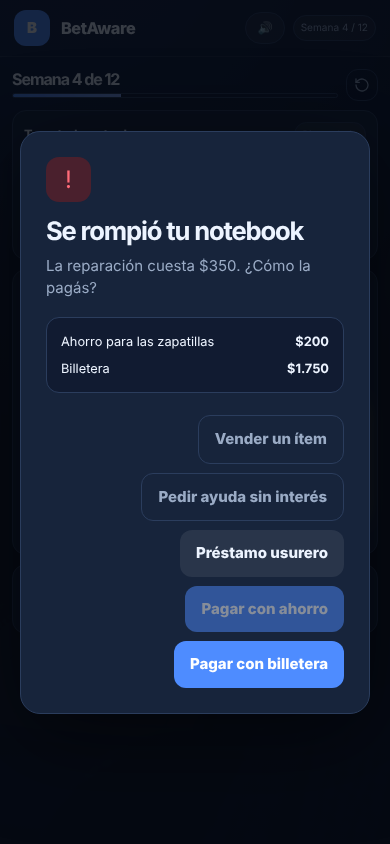
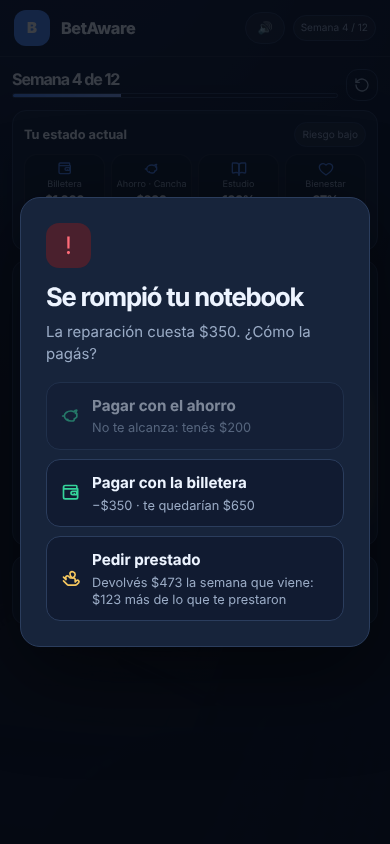
feat: simplify unexpected events to three costed options
The event modal had five buttons with no visible cost, a free loan that
made the paid one pointless, and the hard word "usurero". Now it offers
three options, each showing its cost before choosing: pay from savings
(and how far that leaves the goal), pay from the wallet (and what is
left), or borrow and pay back 35% more next week. Unaffordable options
are disabled with the current balance. Debt wording now uses "devolver"
and "debés".

Update docs/revision.md, docs/informe-cambios.md, the status update and
the event screenshot to match.

Claude-Session: https://claude.ai/code/session_01BiEvhqBGw1okzWDxcH9kun

Changed region(s): [[0.0308, 0.154, 0.9538, 0.8626], [0.7692, 0.3081, 0.8, 0.3389]]

diff --git a/index.html b/index.html
@@ -246,6 +246,13 @@
     .chat { display: grid; gap: 8px; margin: 16px 0 4px; }
     .bubble { background: var(--bg-soft); border: 1px solid var(--line); border-radius: 14px 14px 14px 4px; color: var(--text); font-size: .9rem; justify-self: start; max-width: 92%; padding: 9px 12px; }
     .bubble strong { color: var(--green); display: block; font-size: .72rem; }
+    .crisis-options { display: grid; gap: 9px; margin-top: 16px; }
+    .crisis-option { align-items: center; background: var(--bg-soft); border: 1px solid var(--line); border-radius: 14px; color: var(--text); display: grid; gap: 2px 11px; grid-template-columns: auto 1fr; padding: 12px 14px; text-align: left; transition: border-color .2s, transform .2s; }
+    .crisis-option:hover:not(:disabled) { border-color: var(--blue); transform: translateY(-1px); }
+    .crisis-option .icon { color: var(--green); font-size: 1.25rem; grid-row: span 2; }
+    .crisis-option.borrow .icon { color: var(--yellow); }
+    .crisis-option strong { font-size: .95rem; }
+    .crisis-option span { color: var(--muted); font-size: .8rem; line-height: 1.35; }
     .crisis-icon { align-items: center; background: var(--red-soft); border-radius: 13px; color: var(--red); display: flex; font-size: 1.5rem; height: 45px; justify-content: center; margin-bottom: 15px; width: 45px; }
 
     .debrief { margin: 0 auto; max-width: 900px; }
@@ -437,7 +444,7 @@
         $("#walletBar").style.width = `${clamp(state.wallet / 2000 * 100, 0, 100)}%`; $("#savingsBar").style.width = `${clamp(state.savings / goal.cost * 100, 0, 100)}%`;
         $("#studyBar").style.width = `${state.study}%`; $("#wellbeingBar").style.width = `${state.wellbeing}%`;
         const [risk, riskClass] = riskInfo(); $("#riskBadge").textContent = `Riesgo ${risk}`; $("#riskDot").className = `risk-dot ${riskClass === "low" ? "" : riskClass}`;
-        $("#riskText").textContent = `Exposición al riesgo: ${risk.replace(/o$/, "a")} · ${state.bets} ${state.bets === 1 ? "apuesta" : "apuestas"}${state.debt ? ` · Deuda: ${money(state.debt)}` : ""}`;
+        $("#riskText").textContent = `Exposición al riesgo: ${risk.replace(/o$/, "a")} · ${state.bets} ${state.bets === 1 ? "apuesta" : "apuestas"}${state.debt ? ` · Debés: ${money(state.debt)}` : ""}`;
         const strain = strainInfo(); $("#studyActionDetail").textContent = `+${strain.study}% estudio y +${strain.study === 15 ? 5 : 2}% bienestar.`; $("#saveActionDetail").textContent = `+$150 al ahorro${strain.save ? ` y +${strain.save}% bienestar.` : "."}`;
         $("#consequenceNote").textContent = strain.label; $("#consequenceNote").classList.toggle("hidden", !strain.label);
         $("#historyCount").textContent = `${state.history.length} ${state.history.length === 1 ? "semana" : "semanas"}`;
@@ -456,7 +463,7 @@
       function eventMarkup(item) { return `<div class="event ${item.kind}"><div class="event-top"><span class="event-action">${item.action}</span><span class="event-week">Semana ${item.week}</span></div><div class="event-result ${item.delta >= 0 ? "positive" : "negative"}">${item.result}</div><div class="event-balance">Saldo: ${money(item.wallet)} · Ahorro: ${money(item.savings)}</div></div>`; }
       function applyMood(kind) { if (kind === "success") document.body.dataset.mood = "positive"; else if (kind === "loss") document.body.dataset.mood = "negative"; else delete document.body.dataset.mood; }
       function setFeedback(title, body, kind = "", allowContinue = true) { applyMood(kind); const feedback = $("#feedback"); $("#feedbackCard").classList.remove("mobile-hidden"); feedback.className = `feedback ${kind}`; feedback.innerHTML = `<div class="feedback-title">${title}</div><p>${body}</p>${allowContinue ? '<button class="button primary" id="continueButton">Continuar</button>' : ""}`; $("#feedbackHint").textContent = allowContinue ? "La decisión quedó registrada." : "Todavía tenés que elegir una acción."; if (allowContinue) $("#continueButton").addEventListener("click", continueWeek); }
-      function showReadyFeedback(debtPayment = 0) { $("#slot").className = "slot hidden"; setFeedback("Elegí tu acción principal", `Cobraste $500 y pagaste $250 de gastos fijos${debtPayment ? ` y ${money(debtPayment)} de deuda` : ""}.`, "", false); $("#feedbackCard").classList.add("mobile-hidden"); }
+      function showReadyFeedback(debtPayment = 0) { $("#slot").className = "slot hidden"; setFeedback("Elegí tu acción principal", `Cobraste $500 y pagaste $250 de gastos fijos${debtPayment ? `. Devolviste ${money(debtPayment)} que te prestaron` : ""}.`, "", false); $("#feedbackCard").classList.add("mobile-hidden"); }
       function strainInfo() { if (state.risk >= 6) return { study: 5, save: 0, label: "Exposición crítica: estudiar da +5% y ahorrar no suma bienestar." }; if (state.risk >= 3) return { study: 10, save: 2, label: "Exposición media: estudiar da +10% y ahorrar suma +2% de bienestar." }; return { study: 15, save: 5, label: "" }; }
       function chooseAction(action) {
         if (state.pending) return;
@@ -485,7 +492,7 @@
         if (kind === "loss") openChasingModal();
       }
       function continueWeek() { if (!state.pending) return; closeModal(); state.pending = false; if (state.week >= 12) { askMemory(); return; } state.week++; state.wallet += 500 - 250; const debtPayment = payDebt(); $$(".action").forEach((button) => { button.disabled = false; button.classList.remove("action-selected"); }); render(); showReadyFeedback(debtPayment); maybeCrisis(); maybeReflectionEvent(); maybePeerMessage(); }
-      function payDebt() { if (!state.debt) return 0; const payment = Math.min(state.wallet, state.debt); state.wallet -= payment; state.debt -= payment; addHistory("Pago de deuda", `−${money(payment)} de tu ingreso${state.debt ? ` · todavía debés ${money(state.debt)}` : ""}`, -payment, ""); return payment; }
+      function payDebt() { if (!state.debt) return 0; const payment = Math.min(state.wallet, state.debt); state.wallet -= payment; state.debt -= payment; addHistory("Devolviste lo prestado", `−${money(payment)} de tu ingreso${state.debt ? ` · todavía debés ${money(state.debt)}` : ""}`, -payment, ""); return payment; }
       const peerMessages = {
         2: [["Mati", "Hoy juega la Selección. Metele que es fija"], ["Lu", "Yo ya puse $250. ¿Vos?"]],
         5: [["Nico", "Miren lo que saqué ayer: +$1.500"], ["Mati", "Dale, sumate. No seas amargo"]],
@@ -497,12 +504,16 @@
       function joinPeer() { state.peerJoins++; state.wellbeing = clamp(state.wellbeing + 5, 0, 100); addHistory("Mensaje del grupo", "Te prendiste · +5% bienestar", 5, ""); closeModal(); chooseAction("bet"); }
       function maybeCrisis() { if ([4, 7, 10].includes(state.week) && Math.random() < .72) { const events = [{ title: "Se rompió tu notebook", body: "La reparación cuesta $350. ¿Cómo la pagás?", cost: 350 }, { title: "Material para una prueba", body: "Necesitás comprar material por $250. ¿Cómo lo pagás?", cost: 250 }]; state.currentEvent = events[Math.floor(Math.random() * events.length)]; setTimeout(() => openCrisisModal(), 300); } }
       function maybeReflectionEvent() { const prompts = { 3: ["expectations", "¿Qué beneficios esperás obtener al apostar?"], 6: ["money", state.wagered ? `Hasta ahora apostaste ${money(state.wagered)}. Si hoy tuvieras nuevamente ese dinero, ¿en qué lo usarías?` : "¿En qué usarías $250 si no los apostaras?"], 9: ["cost", state.bets ? "¿Qué cosas dejaste de hacer o de disfrutar debido a las apuestas?" : "¿Qué dejarías de hacer si apostaras todas las semanas?"], 11: ["control", state.bets ? "Si arrancaras de nuevo, ¿apostarías igual?" : "¿Qué te llevaría a apostar?"] }; const prompt = prompts[state.week]; if (prompt) setTimeout(() => openReflection(prompt[0], prompt[1], () => {}, state.week >= 9), 250); }
-      function openCrisisModal() { const event = state.currentEvent; const canSave = state.savings >= event.cost, canWallet = state.wallet >= event.cost; openModal(`<div class="crisis-icon">!</div><h2 id="modalTitle">${event.title}</h2><p>${event.body}</p><div class="probability-box"><div class="prob-line"><span>Ahorro para ${goals[state.goal].short}</span><strong>${money(state.savings)}</strong></div><div class="prob-line"><span>Billetera</span><strong>${money(state.wallet)}</strong></div></div><div class="modal-actions"><button class="button ghost" id="crisisItem">Vender un ítem</button><button class="button ghost" id="crisisNetwork">Pedir ayuda sin interés</button><button class="button secondary" id="crisisLoan">Préstamo usurero</button><button class="button primary" id="crisisSavings" ${canSave ? "" : "disabled"}>Pagar con ahorro</button><button class="button primary" id="crisisPay" ${canWallet ? "" : "disabled"}>Pagar con billetera</button></div>`, true); $("#crisisSavings").addEventListener("click", () => resolveCrisis("savings")); $("#crisisPay").addEventListener("click", () => resolveCrisis("pay")); $("#crisisLoan").addEventListener("click", () => resolveCrisis("loan")); $("#crisisItem").addEventListener("click", () => resolveCrisis("item")); $("#crisisNetwork").addEventListener("click", () => resolveCrisis("network")); }
+      function crisisLoan(cost) { return Math.round(cost * 1.35); }
+      function openCrisisModal() {
+        const event = state.currentEvent, goal = goals[state.goal], loan = crisisLoan(event.cost), canSave = state.savings >= event.cost, canWallet = state.wallet >= event.cost, gap = goal.cost - (state.savings - event.cost);
+        const option = (id, icon, title, detail, enabled = true, extra = "") => `<button class="crisis-option ${extra}" id="${id}" ${enabled ? "" : "disabled"}><svg class="icon" aria-hidden="true"><use href="#icon-${icon}"></use></svg><strong>${title}</strong><span>${detail}</span></button>`;
+        openModal(`<div class="crisis-icon">!</div><h2 id="modalTitle">${event.title}</h2><p>${event.body}</p><div class="crisis-options">${option("crisisSavings", "piggy-bank", "Pagar con el ahorro", canSave ? `−${money(event.cost)} · ${gap > 0 ? `te faltarían ${money(gap)} para ${goal.short}` : `igual llegás a ${goal.short}`}` : `No te alcanza: tenés ${money(state.savings)}`, canSave)}${option("crisisPay", "wallet", "Pagar con la billetera", canWallet ? `−${money(event.cost)} · te quedarían ${money(state.wallet - event.cost)}` : `No te alcanza: tenés ${money(state.wallet)}`, canWallet)}${option("crisisLoan", "hand-heart", "Pedir prestado", `Devolvés ${money(loan)} la semana que viene: ${money(loan - event.cost)} más de lo que te prestaron`, true, "borrow")}</div>`, true);
+        $("#crisisSavings").addEventListener("click", () => resolveCrisis("savings")); $("#crisisPay").addEventListener("click", () => resolveCrisis("pay")); $("#crisisLoan").addEventListener("click", () => resolveCrisis("loan"));
+      }
       function resolveCrisis(mode) { const event = state.currentEvent;
         if (mode === "pay" || mode === "savings") { const fromSavings = mode === "savings"; if (fromSavings) state.savings -= event.cost; else state.wallet -= event.cost; addHistory(event.title, `Pagaste ${money(event.cost)} ${fromSavings ? "con el ahorro" : "con la billetera"}`, -event.cost, ""); setFeedback("Pagaste el imprevisto", fromSavings ? `Lo pagaste con el ahorro. ${goalStatus()}` : `Lo pagaste con la billetera.`, "success", false); }
-        if (mode === "loan") { const loan = Math.round(event.cost * 1.35); state.debt += loan; addHistory(event.title, `Préstamo usurero · deuda de ${money(loan)}`, -loan, "loss"); setFeedback("Pediste un préstamo", `Debés ${money(state.debt)}. Se paga con tu ingreso de la semana que viene.`, "loss", false); }
-        if (mode === "item") { state.wellbeing = clamp(state.wellbeing - 25, 0, 100); state.study = clamp(state.study - 20, 0, 100); addHistory(event.title, "Vendiste un ítem · −25% bienestar · −20% estudio", -event.cost, "loss"); setFeedback("Vendiste algo tuyo", "−25% bienestar · −20% estudio.", "loss", false); }
-        if (mode === "network") { state.debt += event.cost; state.wellbeing = clamp(state.wellbeing - 5, 0, 100); addHistory(event.title, `Ayuda sin interés · deuda de ${money(event.cost)}`, -event.cost, ""); setFeedback("Te prestaron sin interés", `Debés ${money(state.debt)}, sin recargo. Se paga con tu ingreso de la semana que viene.`, "success", false); }
+        if (mode === "loan") { const loan = crisisLoan(event.cost); state.debt += loan; addHistory(event.title, `Pediste prestado · devolvés ${money(loan)}`, -loan, "loss"); setFeedback("Pediste prestado", `La semana que viene devolvés ${money(state.debt)}.`, "loss", false); }
         closeModal(); state.currentEvent = null; render(); }
       function openChasingModal() { if (!state.pending) return; const available = state.wallet >= 300, canProtect = state.wallet >= 150; openModal(`<h2 id="modalTitle">¿Querés recuperar lo perdido?</h2><p>Una app de apuestas te ofrece un doble o nada.</p><div class="probability-box"><div class="prob-line"><span>Doble o nada</span><strong>50% · +$300 / 50% · −$300</strong></div><div class="prob-line"><span>En promedio</span><strong>$0</strong></div><div class="prob-line"><span>Tu saldo</span><strong>${money(state.wallet)}</strong></div></div><p class="auto-continue">La oferta vence en <span id="offerCountdown">10</span> s</p><div class="auto-progress offer-progress" aria-hidden="true"><span style="--duration:10000ms"></span></div><div class="modal-actions"><button class="button ghost" id="skipChasing">Cerrar oferta</button><button class="button secondary" id="protectChasing" ${canProtect ? "" : "disabled"}>Separar $150</button><button class="button danger pulse" id="acceptChasing" ${available ? "" : "disabled"}>Apostar $300 ahora</button></div>`); let remaining = 10; reflectionCountdown = setInterval(() => { remaining--; const counter = $("#offerCountdown"); if (counter) counter.textContent = Math.max(remaining, 0); if (remaining > 0 && remaining <= 3) tone("tick"); }, 1000); reflectionTimer = setTimeout(closeModal, 10000); $("#skipChasing").addEventListener("click", closeModal); $("#acceptChasing").addEventListener("click", resolveChasing); $("#protectChasing").addEventListener("click", protectAfterLoss); }
       function resolveChasing() {
@@ -537,7 +548,7 @@
         const memory = state.memoryGuess === null ? "" : `<p>Creías que eran ${state.memoryGuess}. ¿Qué recordabas mejor: las ganancias o las pérdidas?</p>`;
         return `<h2>Ganaste ${state.wins} de ${state.bets} ${state.bets === 1 ? "apuesta" : "apuestas"}</h2>${memory}${peer}<p>Apostaste ${money(state.wagered)} y cobraste ${money(state.recovered)}. Neto: <strong>${formatSigned(net)}</strong>.</p>${goalCost}<p>Lo esperable para tus apuestas era ${formatSigned(expected)}.${net > 0 ? " Esta vez saliste ganando; las chances no cambiaron." : ""}</p>`;
       }
-      function showDebrief() { showScreen(debriefScreen); $("#headerStatus").textContent = "Simulación completa"; const net = state.recovered - state.wagered; $("#debriefIntro").textContent = `${state.name}, este es el registro de tus 12 semanas.`; $("#resultGrid").innerHTML = `<div class="result-stat"><span class="value">${money(state.wallet)}</span><p class="label">Dinero final en mano</p></div><div class="result-stat"><span class="value">${money(state.savings)}</span><p class="label">${goalStatus(true)}</p></div><div class="result-stat"><span class="value">${state.study}%</span><p class="label">Estudio</p></div><div class="result-stat"><span class="value">${state.wellbeing}%</span><p class="label">Bienestar final</p></div><div class="result-stat"><span class="value">${money(state.wagered)}</span><p class="label">Total apostado</p></div><div class="result-stat"><span class="value">${money(state.recovered)}</span><p class="label">Total cobrado</p></div>${state.debt ? `<div class="result-stat"><span class="value">${money(state.debt)}</span><p class="label">Deuda pendiente</p></div>` : ""}`; $("#verdict").innerHTML = verdictMarkup(net); $("#verdict").classList.toggle("neutral", net >= 0); $("#debriefTimeline").innerHTML = state.history.map(eventMarkup).join(""); applyMood(""); }
+      function showDebrief() { showScreen(debriefScreen); $("#headerStatus").textContent = "Simulación completa"; const net = state.recovered - state.wagered; $("#debriefIntro").textContent = `${state.name}, este es el registro de tus 12 semanas.`; $("#resultGrid").innerHTML = `<div class="result-stat"><span class="value">${money(state.wallet)}</span><p class="label">Dinero final en mano</p></div><div class="result-stat"><span class="value">${money(state.savings)}</span><p class="label">${goalStatus(true)}</p></div><div class="result-stat"><span class="value">${state.study}%</span><p class="label">Estudio</p></div><div class="result-stat"><span class="value">${state.wellbeing}%</span><p class="label">Bienestar final</p></div><div class="result-stat"><span class="value">${money(state.wagered)}</span><p class="label">Total apostado</p></div><div class="result-stat"><span class="value">${money(state.recovered)}</span><p class="label">Total cobrado</p></div>${state.debt ? `<div class="result-stat"><span class="value">${money(state.debt)}</span><p class="label">Te quedó por devolver</p></div>` : ""}`; $("#verdict").innerHTML = verdictMarkup(net); $("#verdict").classList.toggle("neutral", net >= 0); $("#debriefTimeline").innerHTML = state.history.map(eventMarkup).join(""); applyMood(""); }
       function copySummary() { const net = state.recovered - state.wagered; const text = `BetAware · ${state.name}\nDinero final: ${money(state.wallet)} · Ahorro: ${money(state.savings)} de ${money(goals[state.goal].cost)} (${goals[state.goal].name})\nApuestas: ${state.wins} ganadas de ${state.bets}\nNeto de apuestas: ${formatSigned(net)}`; navigator.clipboard?.writeText(text).then(() => { $("#copySummary").textContent = "Resumen copiado"; setTimeout(() => $("#copySummary").textContent = "Copiar resumen", 1600); }).catch(() => { $("#copySummary").textContent = "No disponible"; }); }
       const symbols = ["🏆", "⚽", "👟", "💰", "⭐", "🧢"], winSymbol = { big: 0, small: 1, double: 3 };
       let audioContext, soundOn = true, spinCounter = 0, shownWallet = null, walletTween = 0;

diff --git a/docs/informe-cambios.md b/docs/informe-cambios.md
@@ -17,7 +17,7 @@ Los valores del juego que usan estos textos:
 | Pedir apoyo y pausar | Sin costo · +8% bienestar · +3% estudio · −1 exposición |
 | Apostar en el partido | $250 · 10% +$500 netos · 20% +$100 netos · 70% −$250 · pérdida esperada $105 |
 | Doble o nada | $300 · 50% +$300 · 50% −$300 · esperanza $0 · la oferta dura 10 segundos |
-| Imprevistos | Semanas 4, 7 y 10 (72% de probabilidad): notebook $350 o material $250 |
+| Imprevistos | Semanas 4, 7 y 10 (72% de probabilidad): notebook $350 o material $250 · se pagan con el ahorro, con la billetera o pidiendo prestado (se devuelve un 35% más) |
 | Mensajes del grupo | Semanas 2, 5 y 8 · "Me prendo" +5% bienestar y apuesta · "Paso" −3% bienestar |
 | Pausas de reflexión | Semanas 3, 6, 9 y 11 · Línea 141 en las semanas 9 y 11 |
 
@@ -94,7 +94,7 @@ Si se agrega esta sección, las siguientes pasan a ser 5.7 y 5.8.
 > • Persecución de Pérdidas: El evento de volver a apostar después de perder permite representar el intento de recuperar dinero mediante una nueva apuesta (Clark, 2010). La oferta «doble o nada» no garantiza recuperar lo perdido. Su esperanza nula, señalada en la Sprint Review, deberá explicarse y distinguirse de la apuesta principal de esperanza negativa; la claridad de esa diferencia es una corrección pendiente del prototipo.
 
 **Propuesto:**
-> • Resolución del Imprevisto: El usuario elige cómo pagarlo: con el ahorro, lo que lo aleja de su meta; con la billetera; vendiendo algo propio, con pérdida de bienestar y estudio; pidiendo ayuda sin interés; o con un préstamo usurero, con un 35% de recargo. Las deudas se descuentan del ingreso de la semana siguiente.
+> • Resolución del Imprevisto: El usuario elige entre tres opciones y cada una muestra su costo antes de elegir: pagar con el ahorro, lo que lo aleja de su meta; pagar con la billetera; o pedir prestado y devolver un 35% más con el ingreso de la semana siguiente (por un imprevisto de $350, devuelve $473). Si el dinero no alcanza, la opción aparece desactivada.
 >
 > • Persecución de Pérdidas: El evento de volver a apostar después de perder permite representar el intento de recuperar dinero mediante una nueva apuesta (Clark, 2010). La oferta «doble o nada» no garantiza recuperar lo perdido. Tiene esperanza nula y el juego lo muestra como «En promedio: $0», separado de la apuesta principal, de esperanza negativa. La oferta vence en 10 segundos, como las cuotas especiales de las aplicaciones de apuestas.
 
@@ -146,7 +146,7 @@ El párrafo «Resumen Financiero» puede quedar igual.
 ### Fila "Imprevistos y persecución de pérdidas"
 
 **Mecánicas, actual:** Gastos inesperados; tras perder, oferta de apostar de nuevo, cerrar o separar dinero.
-**Mecánicas, propuesto:** Gastos inesperados que se pagan con ahorro, billetera, venta, ayuda o préstamo; tras perder, oferta de doble o nada por 10 segundos, con opción de cerrarla o separar dinero.
+**Mecánicas, propuesto:** Gastos inesperados que se pagan con el ahorro, con la billetera o pidiendo prestado; tras perder, oferta de doble o nada por 10 segundos, con opción de cerrarla o separar dinero.
 
 **Iteraciones, actual:** Revisar texto y balance; explicar el «doble o nada» de esperanza nula y distinguirlo de la apuesta principal de esperanza negativa.
 **Iteraciones, propuesto:** Hecho: la oferta muestra «En promedio: $0», separada de la apuesta principal.

diff --git a/docs/revision.md b/docs/revision.md
@@ -22,7 +22,7 @@ Criterio de texto: cada pantalla muestra el dato en una línea y deja que el jug
 | Apuesta: 10% de +$500 netos, 20% de +$100 y 70% de −$250; cobros de $750, $350 y $0 | Informe 5.3, matriz | Cumple |
 | Chances fijas e independientes, que no cambian con las rachas | Sprint Review, matriz | Cumple: cada apuesta sortea de nuevo |
 | Indicadores de billetera, ahorro, estudio, bienestar y exposición | Informe 5.6 | Cumple |
-| Imprevistos que se cubren con el ahorro (notebook de $350) | Informe 5.5 | Cumple, con opciones extra: préstamo, vender un ítem o ayuda sin interés |
+| Imprevistos que se cubren con el ahorro (notebook de $350) | Informe 5.5 | Cumple: se paga con el ahorro, con la billetera o pidiendo prestado |
 | "Doble o nada" después de perder, con opción de cerrar o separar plata | Matriz | Cumple |
 | Pausas en las semanas 3, 6, 9 y 11, sin puntuar respuestas, con referencia a la Línea 141 | Sprint Review, matriz | Cumple |
 | Historial que no se borra | Informe 5.6 | Cumple |
@@ -53,6 +53,7 @@ Criterio de texto: cada pantalla muestra el dato en una línea y deja que el jug
 18. **La billetera siempre crecía.** **Corregido.** Con $500 de ingreso y acciones de $250 como mucho, se terminaba con más de $4.000 en la billetera sin llegar a la meta. Con los $250 de gastos fijos, en las pruebas la billetera terminó entre $1.350 y $2.100. Quien ahorra todas las semanas igual suma $100 por semana en la billetera; conviene ver en el playtest si eso confunde.
 19. **Presión de pares.** **Corregido.** En las semanas 2, 5 y 8 escribe el grupo del curso, con mensajes como "Metele que es fija" o un amigo que muestra solo lo que ganó. "Me prendo" apuesta los $250 de esa semana y suma +5% de bienestar; "Paso" resta −3% de bienestar. Cada respuesta queda en el historial y el cierre dice cuántas veces se apostó por el grupo. Conviene revisar con Psicología los textos de los mensajes y el costo de pasar.
 20. **Estímulos de casino.** **Agregado.** La apuesta usa una tragamonedas de tres rodillos que frenan de a uno, con tic-tac y anticipación cuando los dos primeros coinciden. En el 40% de las derrotas el trofeo queda justo arriba de la línea ("casi gano", Clark, 2010). Los premios tienen monedas que vuelan a la billetera, contador, confeti en el premio grande y vibración en el celular. El botón de apostar brilla y muestra la racha. La oferta de doble o nada vence en 10 segundos y el chat del grupo llega mensaje por mensaje. Nada de esto cambia las probabilidades. El cierre no tiene sonido ni efectos. Hay un botón de sonido arriba para usar en el aula, y con "reducir movimiento" activado no hay partículas.
+21. **Imprevistos con demasiadas opciones.** **Corregido.** Había cinco botones sin costo a la vista, "Pedir ayuda sin interés" siempre convenía más que el préstamo y "préstamo usurero" era una palabra difícil. Ahora hay tres opciones y cada una dice cuánto cuesta: "Pagar con el ahorro" (−$350 · te faltarían $500 para la cancha), "Pagar con la billetera" (−$350 · te quedarían $650) y "Pedir prestado" (devolvés $473 la semana que viene: $123 más de lo que te prestaron). Si no alcanza, el botón aparece apagado con "No te alcanza: tenés $200". Se sacaron "Vender un ítem" y "Pedir ayuda sin interés".
 
 ## Pendientes
 

diff --git a/docs/estado-2026-10-26.md b/docs/estado-2026-10-26.md
@@ -8,7 +8,7 @@ Este documento resume qué cambió en el prototipo desde la Sprint Review, qué 
 
 ## Versión jugable
 
-- **Repositorio:** https://github.com/BrigabG/BetAware, rama `main`. La versión del juego descripta acá es la del commit `2f1b4f1`.
+- **Repositorio:** https://github.com/BrigabG/BetAware, rama `main`. La versión del juego descripta acá es la de `main` del 26 de octubre.
 - **Enlace web:** https://brigabg.github.io/BetAware/. Se publica solo con GitHub Pages cada vez que cambia `main`.
 - **Sin conexión:** descargar el repositorio (botón **Code → Download ZIP**) y abrir `index.html` en un navegador. No hace falta instalar nada.
 
@@ -32,7 +32,7 @@ Se corrigieron todos los errores que marcó la Sprint Review y se agregaron las 
 ### Economía
 
 - Cada semana se cobran $500 y se pagan $250 de gastos fijos (viáticos y comida). Quedan $250 para una acción. Antes la billetera crecía sin límite y se terminaba con más de $4.000.
-- En los imprevistos se elige pagar con el ahorro (y alejarse de la meta) o con la billetera.
+- En los imprevistos hay tres opciones y cada una dice cuánto cuesta: pagar con el ahorro (y alejarse de la meta), pagar con la billetera o pedir prestado y devolver un 35% más la semana siguiente.
 - La deuda se paga entera con el ingreso de la semana siguiente. Antes se descontaba toda la deuda cada semana, pero bajaba solo $40.
 
 ### Cierre
@@ -75,7 +75,7 @@ Tomadas en un celular de 390 px de ancho. Los resultados de las apuestas fueron 
 | <img src="capturas/01-inicio.png" width="260" alt="Pantalla de inicio"><br>Inicio | <img src="capturas/02-meta.png" width="260" alt="Elección de meta y prioridad"><br>Elección de meta |
 | <img src="capturas/03-semana.png" width="260" alt="Semana con las cuatro acciones"><br>Una semana | <img src="capturas/04-premio.png" width="260" alt="Premio grande con monedas y confeti"><br>Premio grande |
 | <img src="capturas/05-grupo.png" width="260" alt="Mensajes del grupo del curso"><br>Presión de pares | <img src="capturas/06-casi-gano.png" width="260" alt="Rodillos con dos trofeos y el tercero justo arriba de la línea"><br>"Casi gano" |
-| <img src="capturas/07-doble-o-nada.png" width="260" alt="Oferta de doble o nada con cuenta regresiva"><br>Doble o nada | <img src="capturas/08-imprevisto.png" width="260" alt="Imprevisto: se rompió la notebook"><br>Imprevisto |
+| <img src="capturas/07-doble-o-nada.png" width="260" alt="Oferta de doble o nada con cuenta regresiva"><br>Doble o nada | <img src="capturas/08-imprevisto.png" width="260" alt="Imprevisto: se rompió la notebook, con tres opciones y su costo"><br>Imprevisto |
 | <img src="capturas/09-memoria.png" width="260" alt="Pregunta sobre cuántas apuestas ganó"><br>Pregunta antes del cierre | <img src="capturas/10-cierre.png" width="260" alt="Cierre con resultados y trayectoria"><br>Cierre |
 
 En la partida del cierre, al jugador le faltaron $100 para las zapatillas y perdió $150 apostando.
